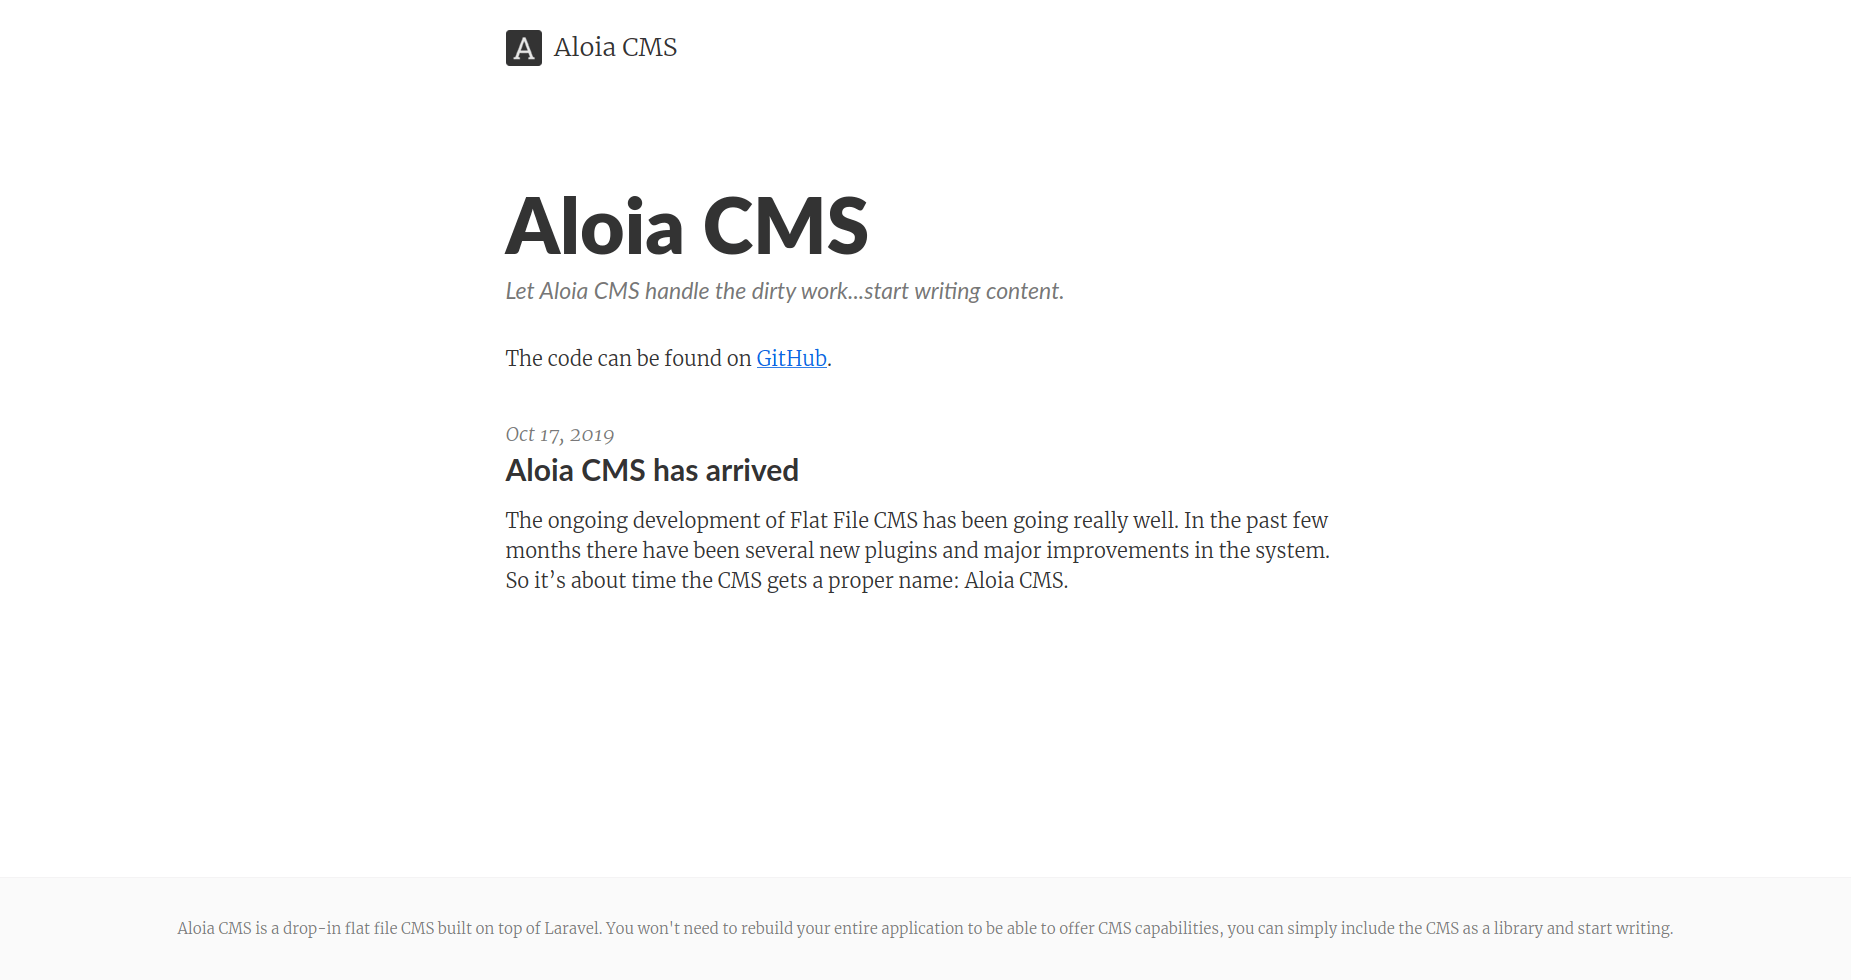
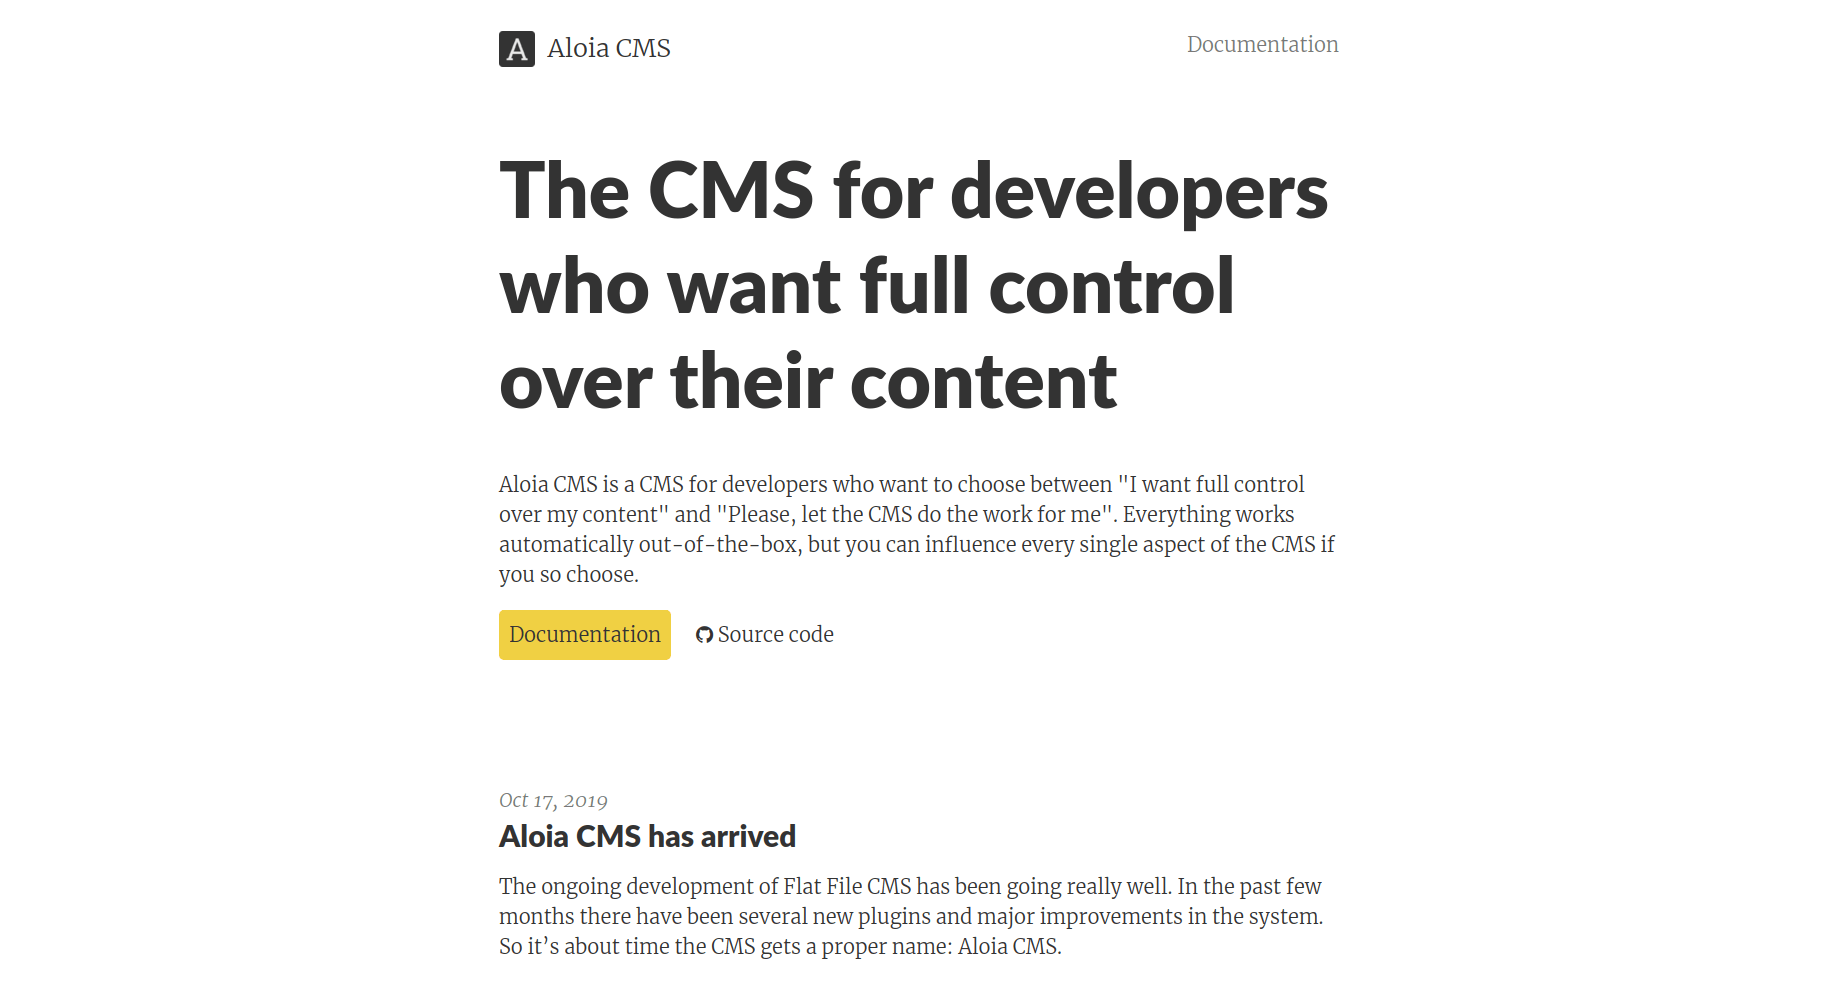
Updated the Aloia CMS entry in recent projects with current information

diff --git a/resources/content/work/aloia-cms.md b/resources/content/work/aloia-cms.md
@@ -1,6 +1,6 @@
-![AloiaCMS](/images/work/aloiacms_1920x1080.png "AloiaCMS homepage")
+![Aloia CMS](/images/work/aloiacms_1920x1080.png "Aloia CMS homepage")
 
-# AloiaCMS
+# Aloia CMS
 
 AloiaCMS is a drop-in flat file CMS built on top of Laravel. You won't need to rebuild your entire 
 application to be able to offer CMS capabilities, you can simply include the CMS as a library and start 
@@ -29,9 +29,10 @@ it turned out, it's extremely simple.
 Getting the first few pages online was a breeze and the development process is very pleasant.
 
 ## Documentation
-When I get further into developing the CMS and with it, the website, I will host all documentation 
-on the website, so it's easy to maintain and it doesn't polute the main repositories with distributed 
-documentation parts. Everything will be in 1 place...to make everyone's life a little bit easier.
+Besides serving as a landing page website, the website also contains documentation. 
+Writing this documentation is an ongoing project, but the website serves as a place where you can 
+find any official plugins, extra resources, and detailed documentation for the CMS. 
+You can find the documentation [by clicking here](https://aloiacms.com/documentation).
 
 ## Tools used
 I used the following tools to create this website:
